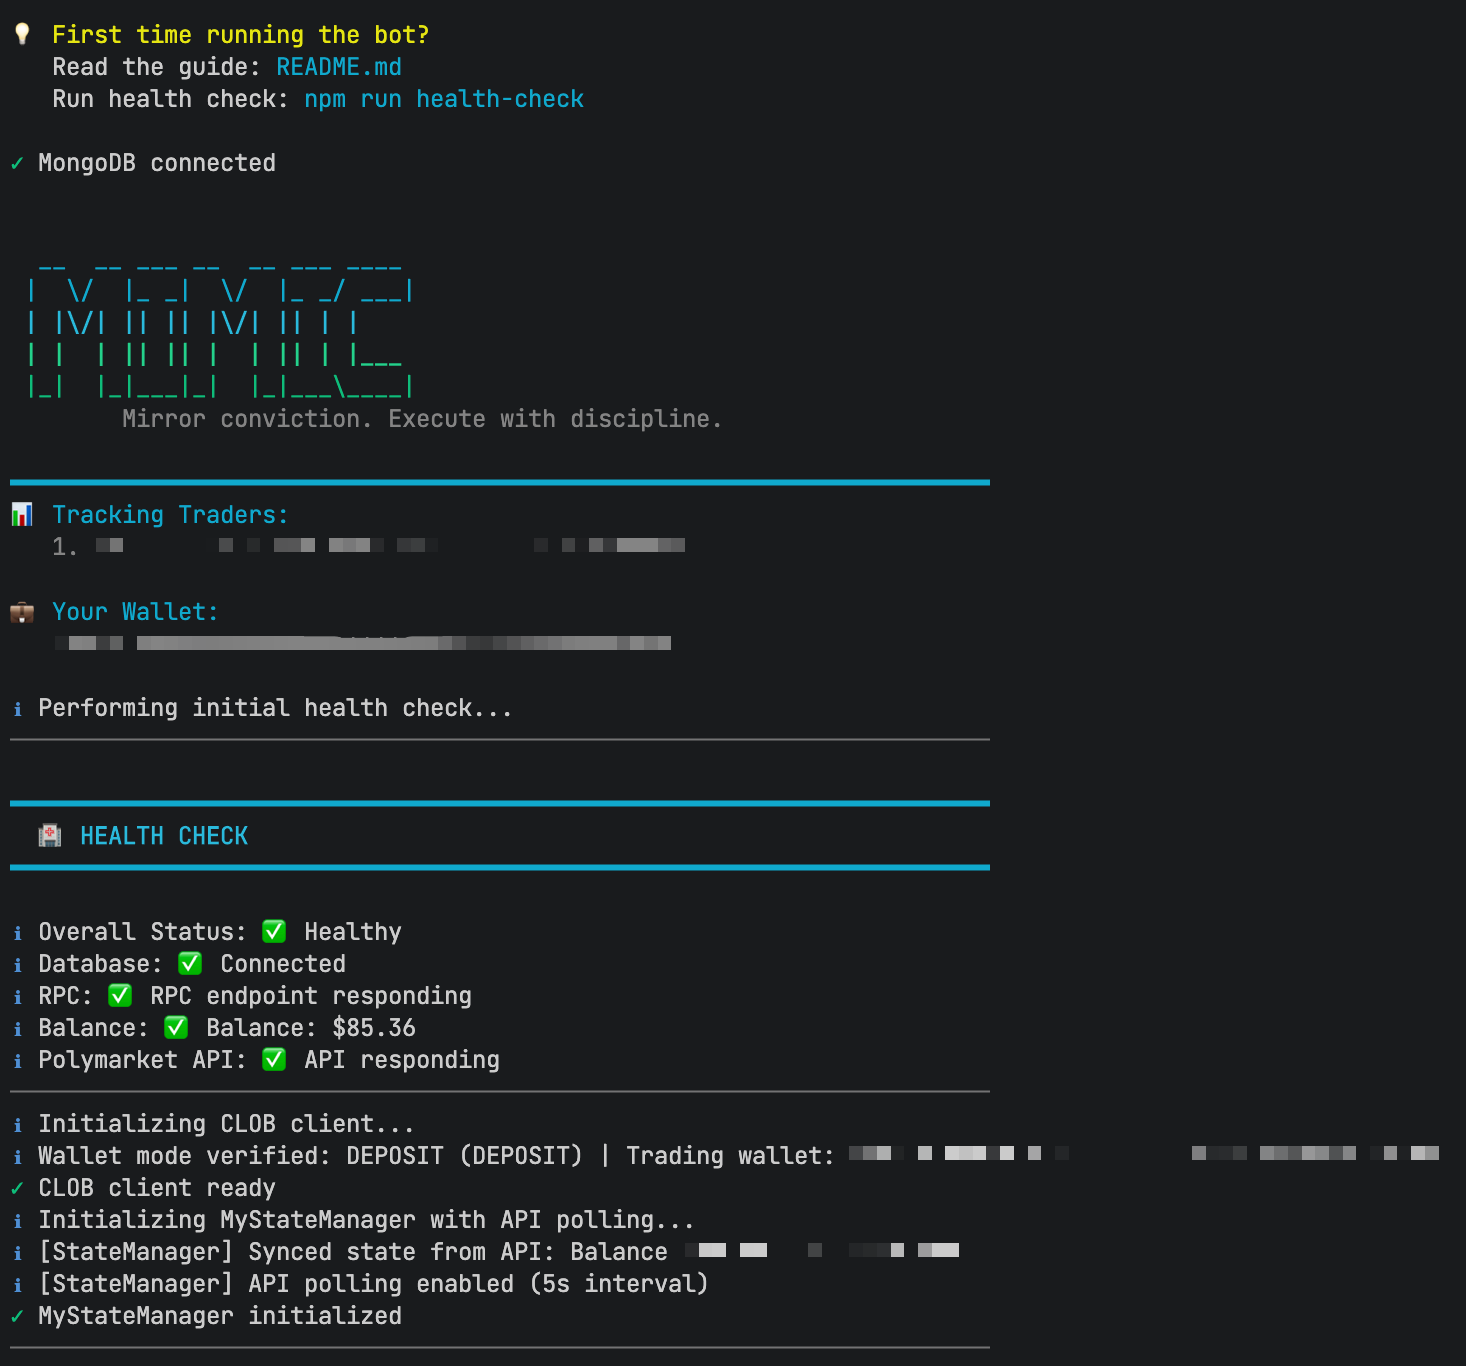
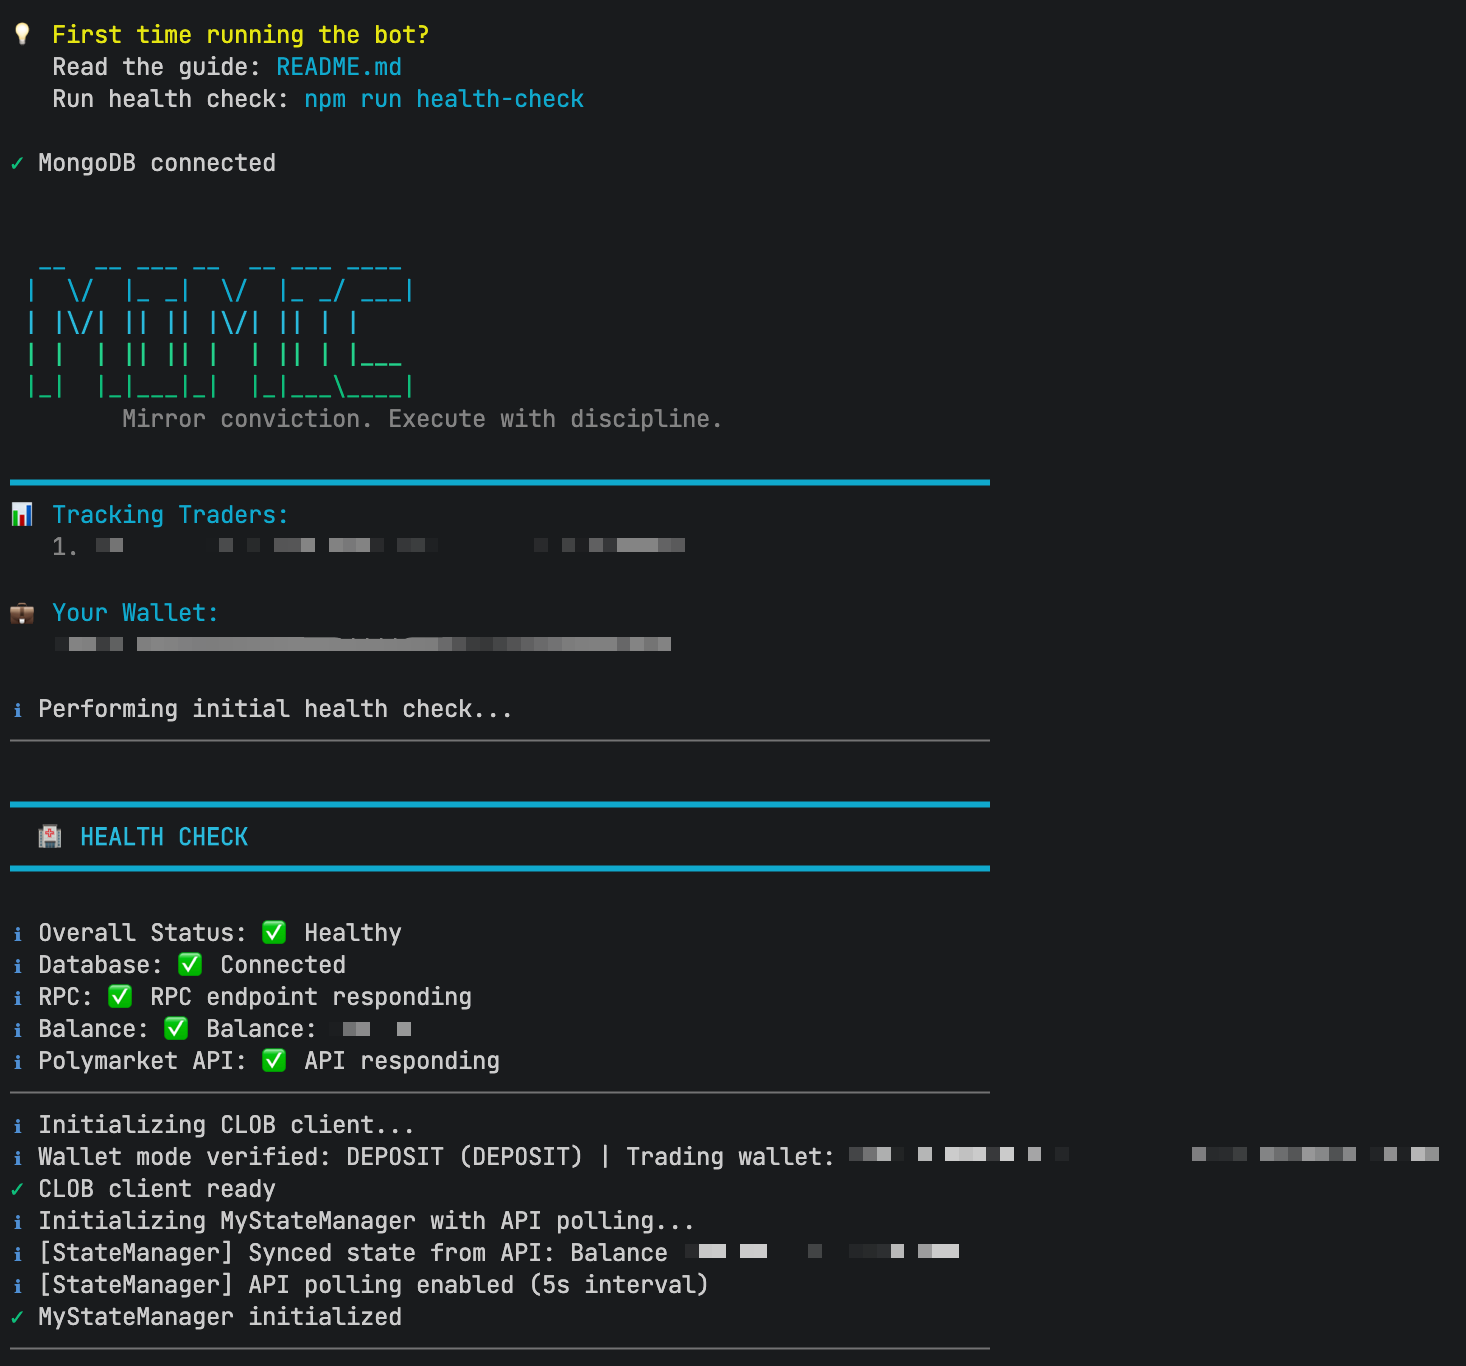
modified:   README.md modified:   assets/image.png

diff --git a/README.md b/README.md
@@ -1,13 +1,14 @@
-# Polymarket Mimic Trading Bot
-
-> Mirror top Polymarket traders with automated execution, configurable risk controls, and wallet-mode aware order routing.
-
-中文版本: [README.zh-CN.md](./README.zh-CN.md)
-
-[![License: ISC](https://img.shields.io/badge/License-ISC-blue.svg)](LICENSE)
-[![Node.js Version](https://img.shields.io/badge/node-%3E%3D18.0.0-brightgreen.svg)](https://nodejs.org/)
-[![Polymarket](https://img.shields.io/badge/Market-Polymarket-6b5cff.svg)](https://polymarket.com/)
-[![MongoDB](https://img.shields.io/badge/Storage-MongoDB-47A248.svg)](https://www.mongodb.com/)
+<div align="center">
+  <h1>Polymarket Mimic Trading Bot</h1>
+  <p><strong>Mirror top Polymarket traders with automated execution, configurable risk controls, and wallet-mode aware order routing.</strong></p>
+  <p><a href="./README.zh-CN.md">中文版本</a></p>
+  <p>
+    <a href="LICENSE"><img src="https://img.shields.io/badge/License-ISC-blue.svg" alt="License: ISC" /></a>
+    <a href="https://nodejs.org/"><img src="https://img.shields.io/badge/node-%3E%3D18.0.0-brightgreen.svg" alt="Node.js Version" /></a>
+    <a href="https://polymarket.com/"><img src="https://img.shields.io/badge/Market-Polymarket-6b5cff.svg" alt="Polymarket" /></a>
+    <a href="https://www.mongodb.com/"><img src="https://img.shields.io/badge/Storage-MongoDB-47A248.svg" alt="MongoDB" /></a>
+  </p>
+</div>
 
 ## Why This Bot
 